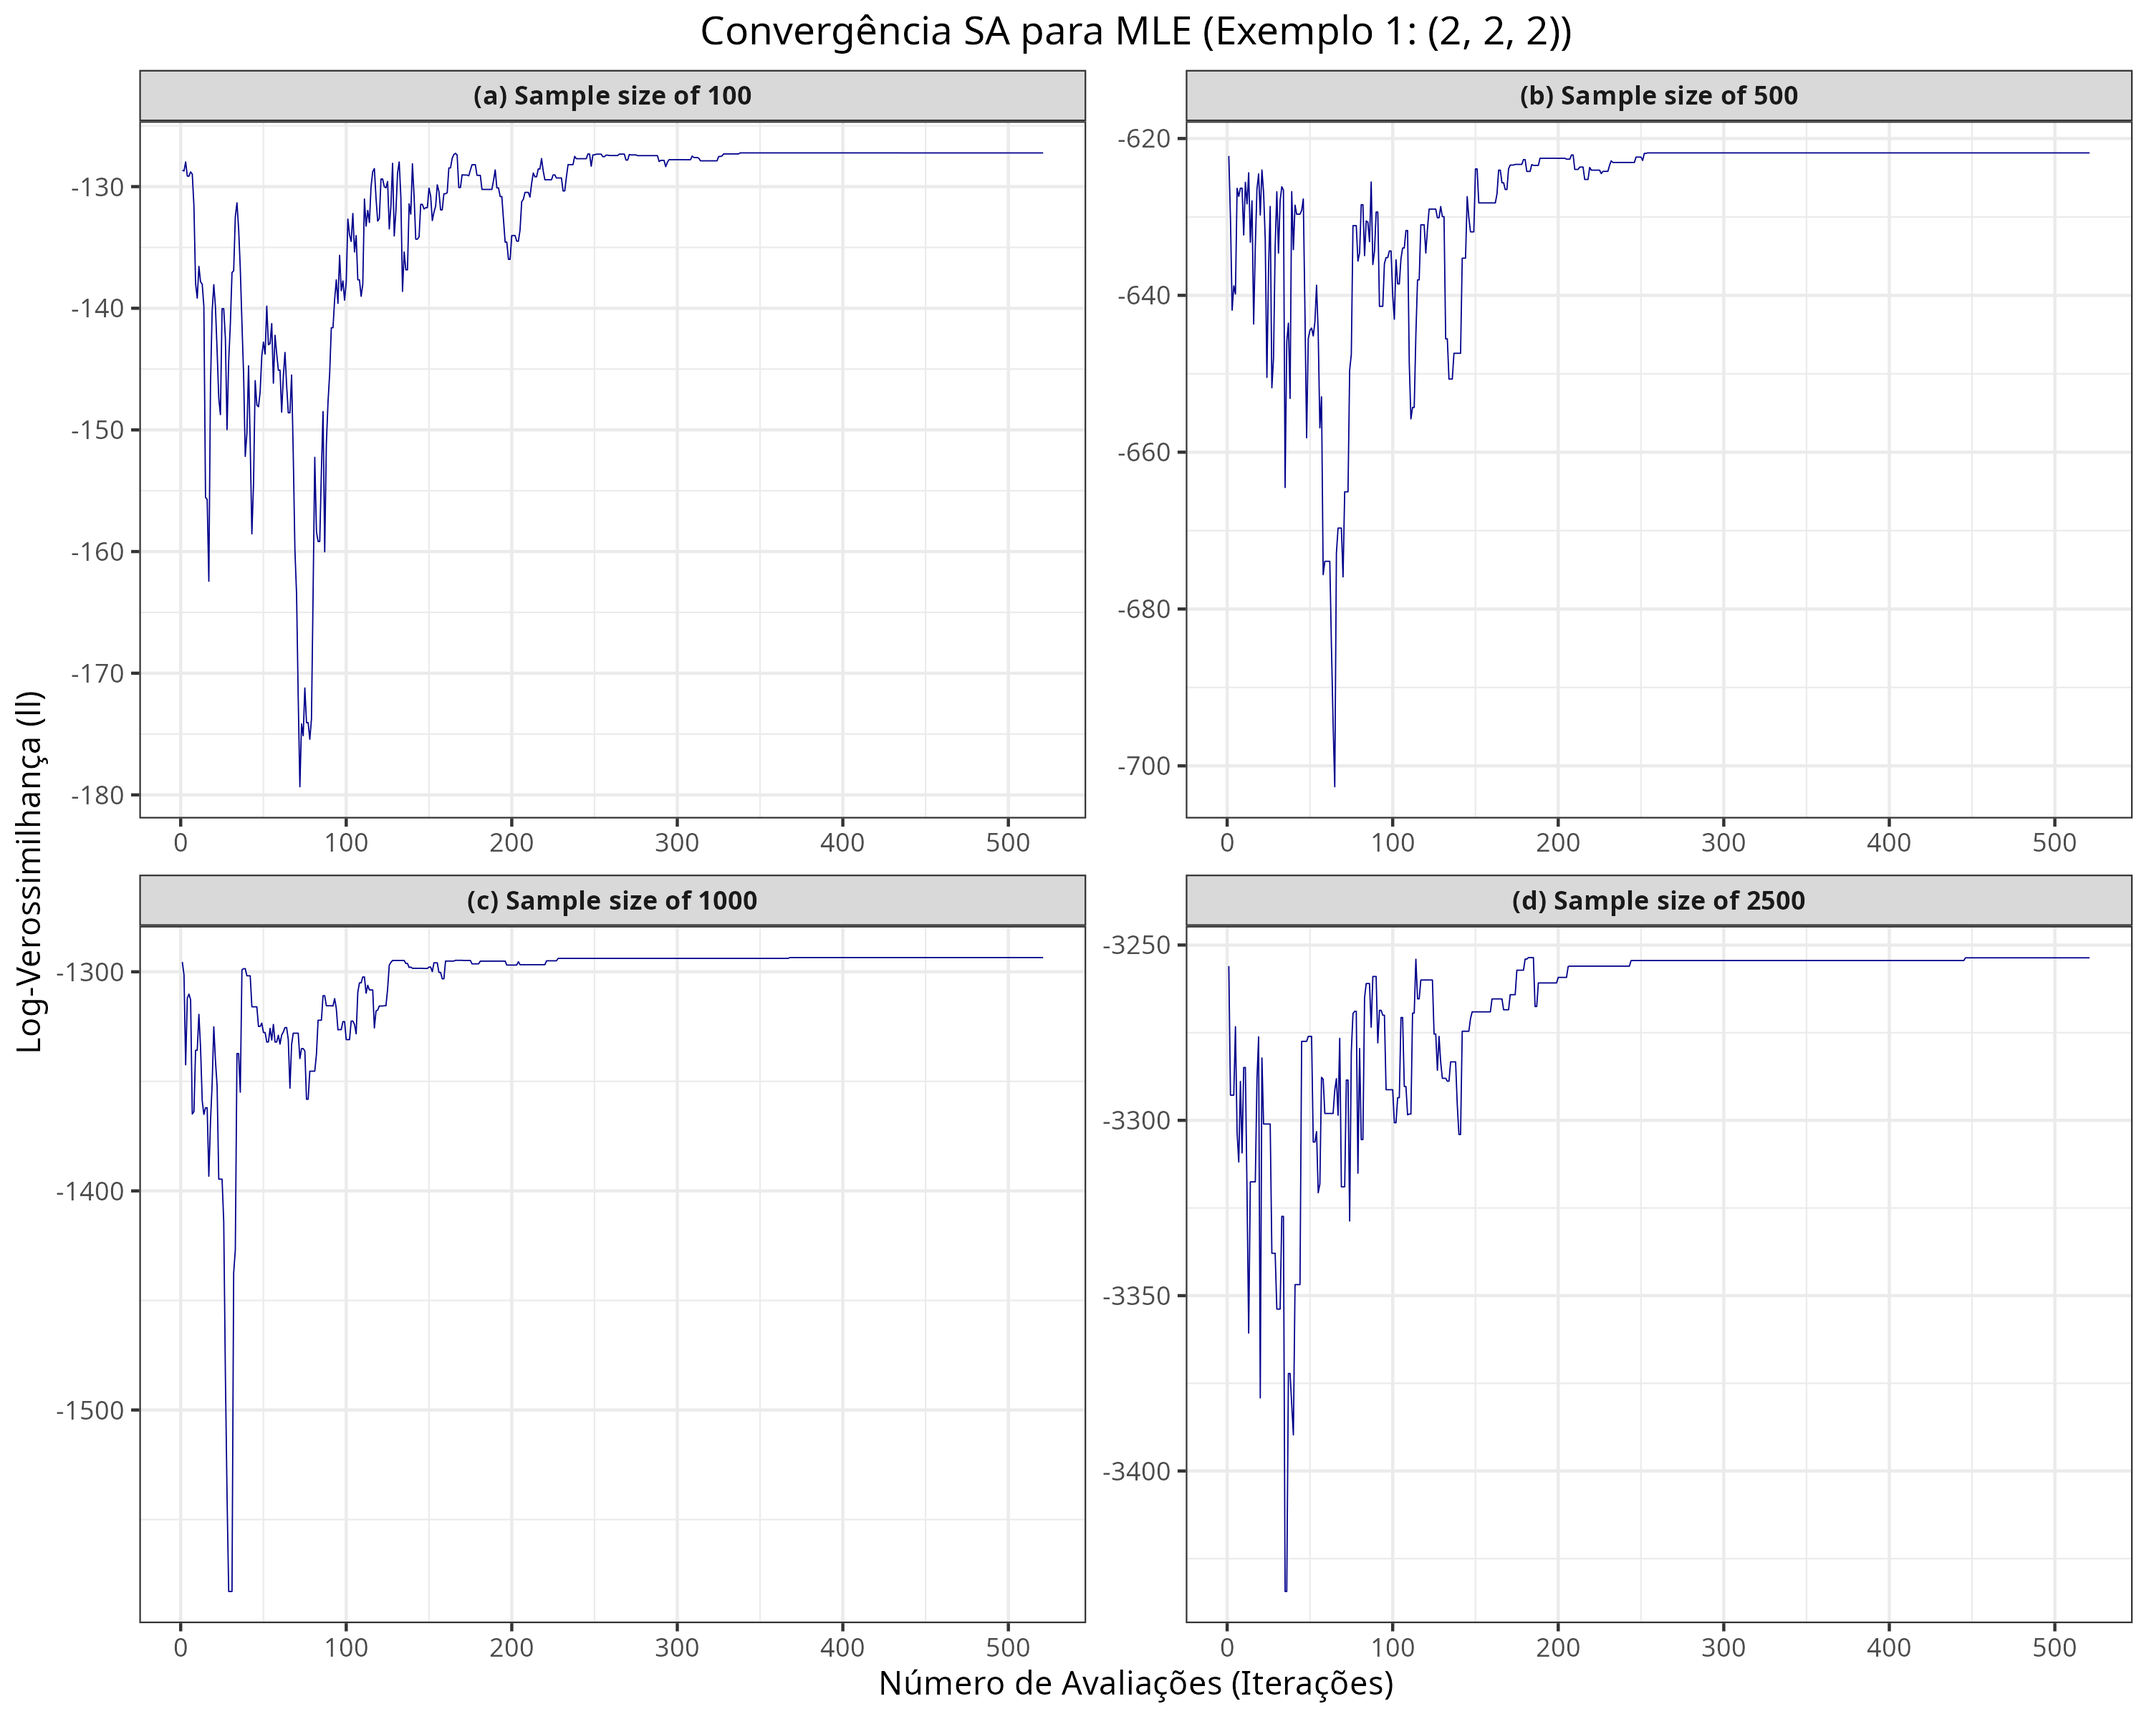
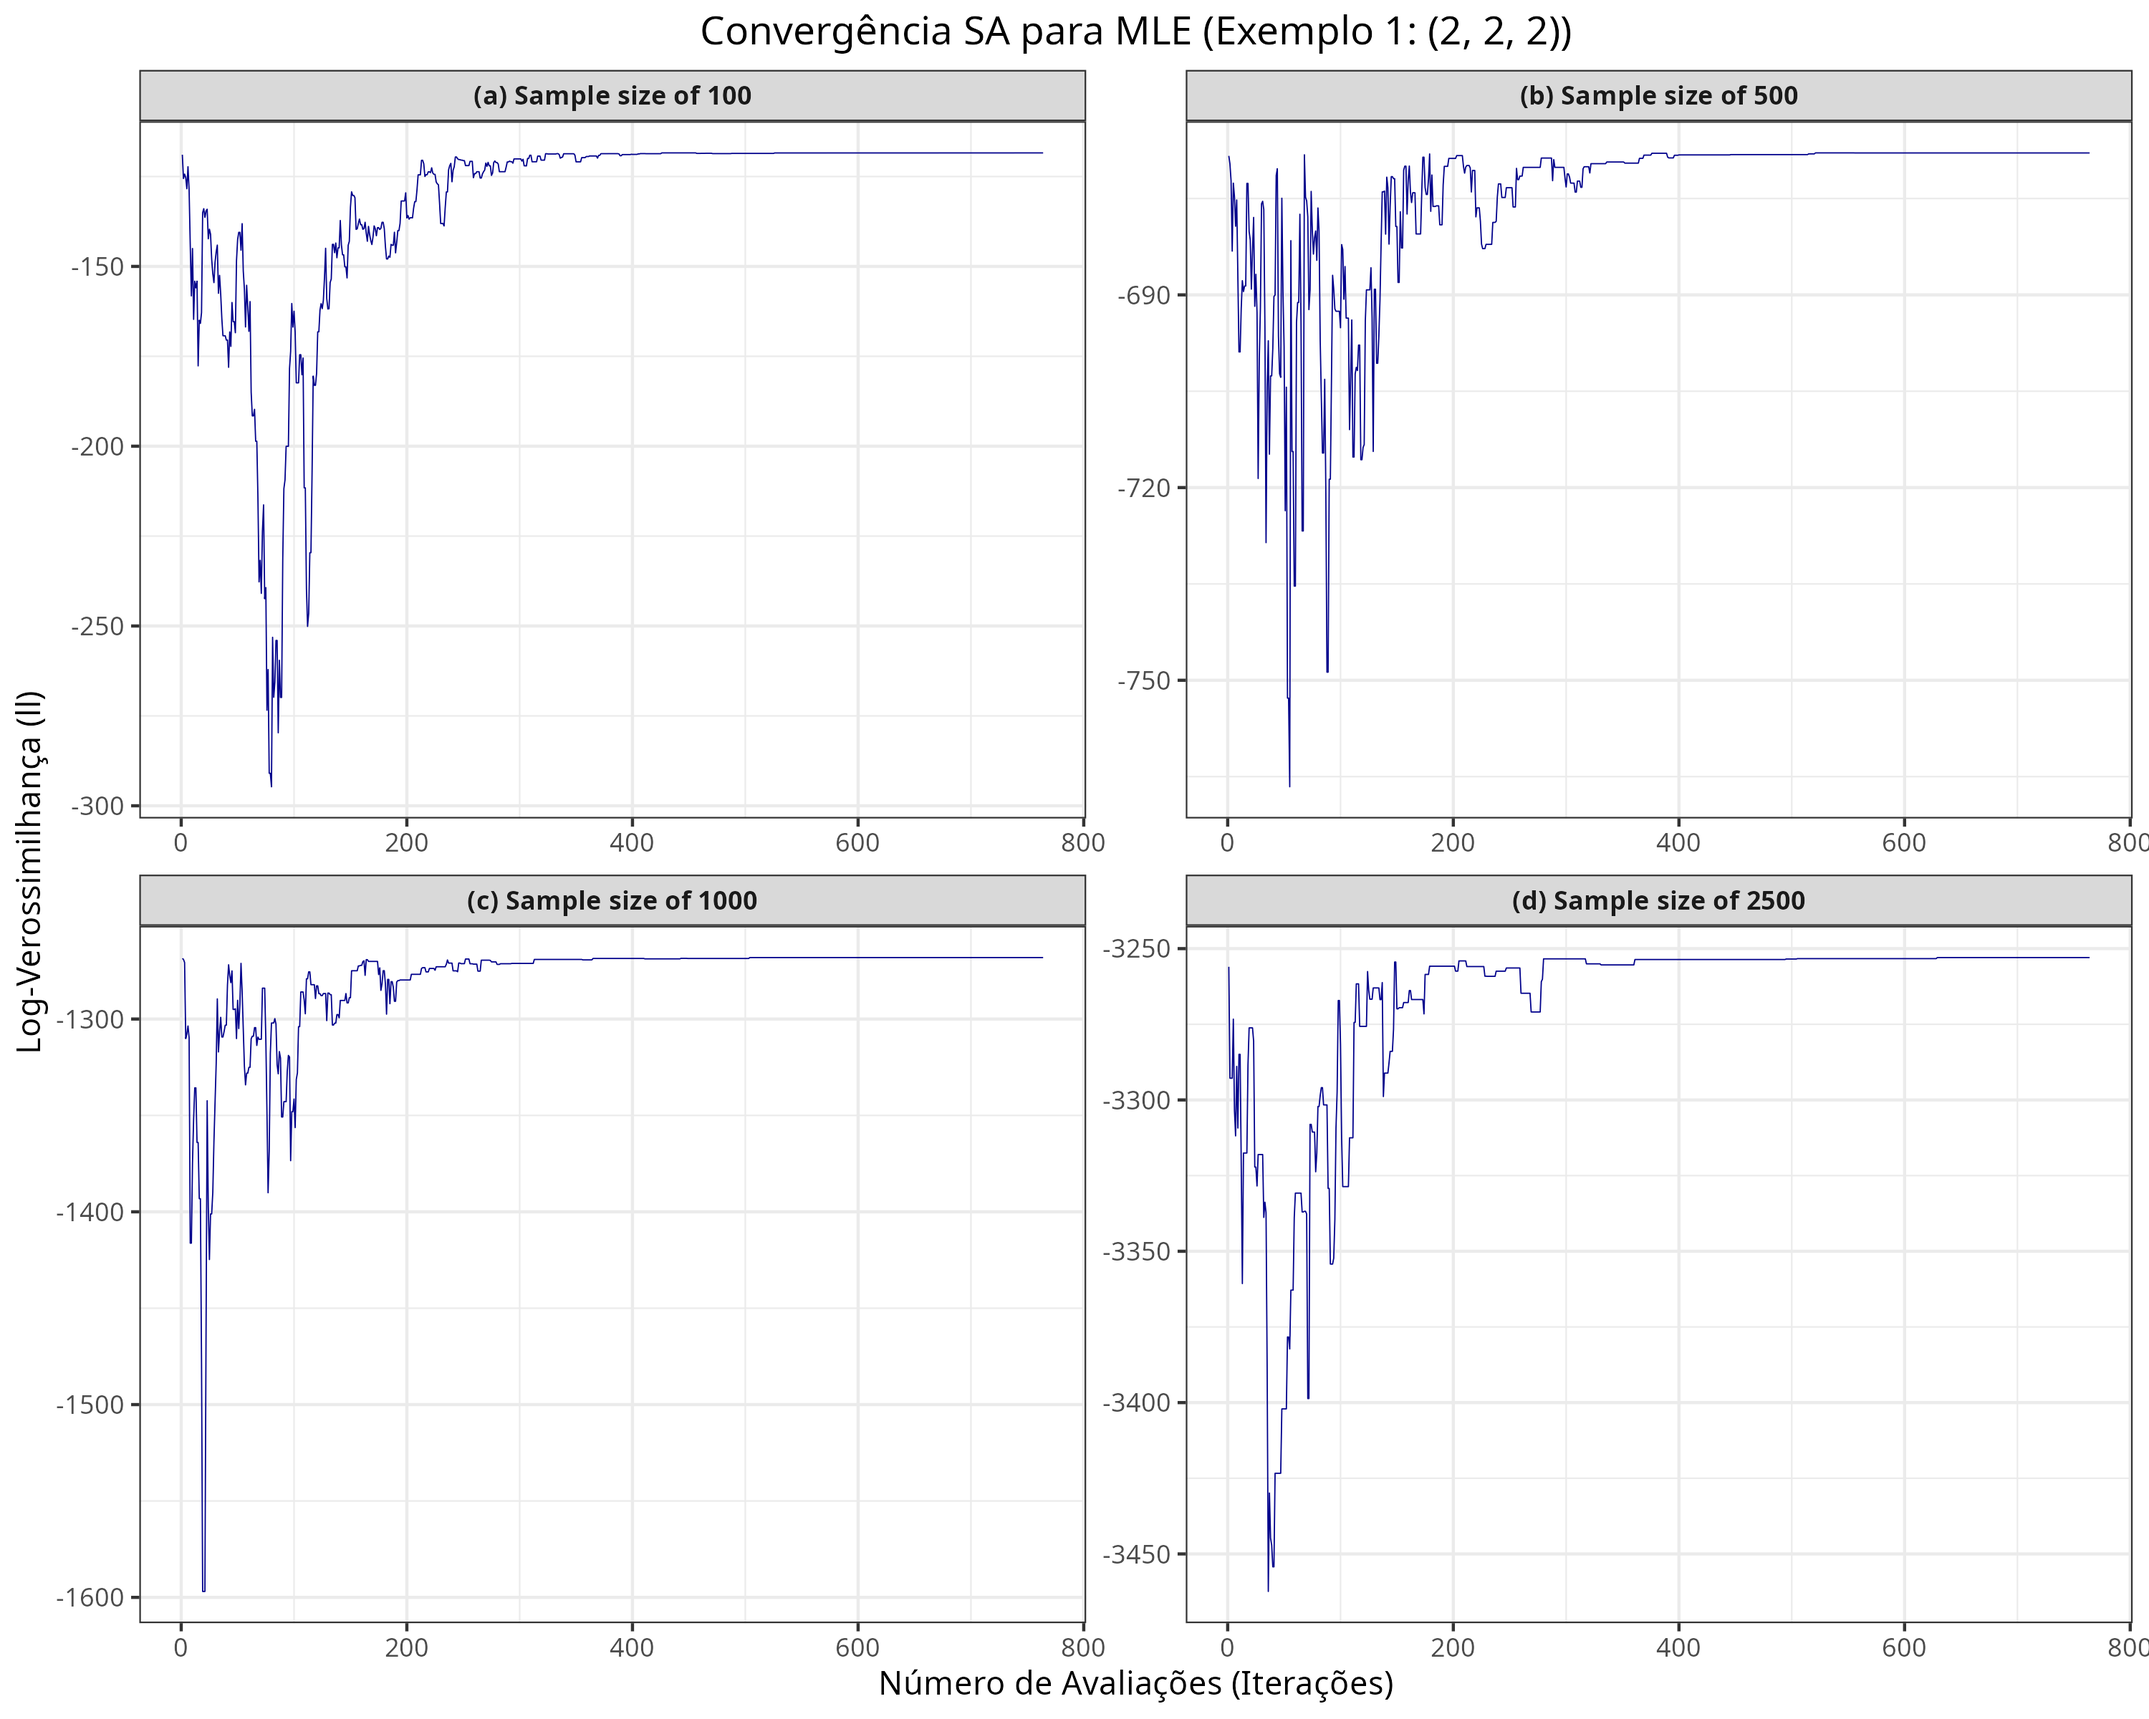
Adição

diff --git a/figuras1/sa_weibull_results_exemplo1.tex b/figuras1/sa_weibull_results_exemplo1.tex
@@ -1,22 +1,20 @@
-% latex table generated in R 4.5.2 by xtable 1.8-4 package
-% Tue Nov 11 13:40:30 2025
-\begin{table}[ht]
+\begin{document}
+ \begin{table}[ht]
 \centering
 \begin{tabular}{lrrrr}
   \hline
-Measure & X2500 & X1000 & X.500 & X.100 \\ 
+  \textbf{Medida} & \textbf{X2500} & \textbf{X1000} & \textbf{X.500} & \textbf{X.100} \\ 
   \toprule
-\multicolumn{1}{c}{Weibull parameters} & \multicolumn{4}{c}{(2, 2, 2)}\\
-\hline
-Measure &  \hline
-Estimated parameters ($\backslash$($\backslash$beta$\backslash$), $\backslash$($\backslash$eta$\backslash$), $\backslash$($\backslash$gamma$\backslash$)) & (1.9961, 2.0295, 2.0245) & (2.0189, 2.0171, 1.9892) & (2.0036, 1.9209, 2.0378) & (1.9500, 1.9084, 2.0256) \\ 
+  \multicolumn{1}{c}{\textbf{Parâmetros de Weibull}} & \multicolumn{4}{c}{(8, 4, 6)}\\
+  \hline
+  \textbf{Parâmetros Estimados} ($\beta$, $\eta$, $\gamma$) & (6.4894, 3.3156, 6.6752) & (6.8370, 3.3816, 6.6081) & (6.2097, 3.0085, 6.9616) & (4.8668, 2.6212, 7.2878) \\ 
     \midrule
-Likelihood function at the real values & -3254.7346 & -1293.5279 & -623.0433 & -127.3077 \\ 
-  Likelihood function at the estimated value & -3253.5756 & -1293.5001 & -621.8333 & -127.2279 \\ 
-  Run time (s) & 0.4544 & 0.3323 & 0.3428 & 0.3381 \\ 
-   \hline
+  Função de Verossimilhança nos valores reais & -2040.0933 & -778.4490 & -385.7043 & -85.9932 \\ 
+  Função de Verossimilhança no valor estimado & -2044.3123 & -778.8102 & -386.2190 & -86.0661 \\ 
+  Tempo de Execução (s) & 0.4719 & 0.5732 & 0.3658 & 0.3559 \\ 
+  \hline
 \end{tabular}
-\caption{Tabela de Resultados para o Exemplo 1: Weibull (2, 2, 2) via Simulated Annealing} 
-\label{tab:sa_weibull_results_ex1}
+\caption{Tabela de Resultados para o Exemplo 3: Weibull (8, 4, 6) via Simulated Annealing} 
+\label{tab:sa_weibull_results_ex3}
 \end{table}
-
+\end{document}

diff --git a/figuras1/sa_weibull_results_exemplo2.tex b/figuras1/sa_weibull_results_exemplo2.tex
@@ -1,5 +1,5 @@
 % latex table generated in R 4.5.2 by xtable 1.8-4 package
-% Tue Nov 11 13:40:32 2025
+% Tue Nov 11 13:52:03 2025
 \begin{table}[ht]
 \centering
 \begin{tabular}{lrrrr}
@@ -9,11 +9,11 @@ Measure & X2500 & X1000 & X.500 & X.100 \\
 \multicolumn{1}{c}{Weibull parameters} & \multicolumn{4}{c}{(3, 5, 7)}\\
 \hline
 Measure &  \hline
-Estimated parameters ($\backslash$($\backslash$beta$\backslash$), $\backslash$($\backslash$eta$\backslash$), $\backslash$($\backslash$gamma$\backslash$)) & (3.0640, 5.0751, 6.9754) & (2.6816, 4.4752, 7.3626) & (3.1692, 5.0352, 6.9872) & (3.5639, 6.0773, 5.9296) \\ 
+Estimated parameters ($\backslash$($\backslash$beta$\backslash$), $\backslash$($\backslash$eta$\backslash$), $\backslash$($\backslash$gamma$\backslash$)) & (3.0587, 4.9981, 6.9799) & (3.0384, 5.0790, 6.9685) & (2.8221, 4.7262, 7.2116) & (3.1704, 4.9244, 6.9768) \\ 
     \midrule
-Likelihood function at the real values & -4733.5157 & -1885.2139 & -926.0549 & -198.2074 \\ 
-  Likelihood function at the estimated value & -4732.1336 & -1880.3641 & -924.9026 & -194.5141 \\ 
-  Run time (s) & 0.4136 & 0.2805 & 0.2754 & 0.3266 \\ 
+Likelihood function at the real values & -4708.0875 & -1899.9829 & -948.4524 & -183.9369 \\ 
+  Likelihood function at the estimated value & -4707.5143 & -1899.5904 & -948.1197 & -183.4742 \\ 
+  Run time (s) & 0.7270 & 0.4349 & 0.3273 & 0.3240 \\ 
    \hline
 \end{tabular}
 \caption{Tabela de Resultados para o Exemplo 2: Weibull (3, 5, 7) via Simulated Annealing} 

diff --git a/figuras1/sa_weibull_results_exemplo3.tex b/figuras1/sa_weibull_results_exemplo3.tex
@@ -1,5 +1,5 @@
 % latex table generated in R 4.5.2 by xtable 1.8-4 package
-% Tue Nov 11 13:40:34 2025
+% Tue Nov 11 13:52:06 2025
 \begin{table}[ht]
 \centering
 \begin{tabular}{lrrrr}
@@ -9,11 +9,11 @@ Measure & X2500 & X1000 & X.500 & X.100 \\
 \multicolumn{1}{c}{Weibull parameters} & \multicolumn{4}{c}{(8, 4, 6)}\\
 \hline
 Measure &  \hline
-Estimated parameters ($\backslash$($\backslash$beta$\backslash$), $\backslash$($\backslash$eta$\backslash$), $\backslash$($\backslash$gamma$\backslash$)) & (6.2645, 3.1957, 6.7846) & (5.8307, 2.9745, 7.0066) & (5.8078, 2.9385, 7.0882) & (5.1459, 2.3385, 7.6643) \\ 
+Estimated parameters ($\backslash$($\backslash$beta$\backslash$), $\backslash$($\backslash$eta$\backslash$), $\backslash$($\backslash$gamma$\backslash$)) & (6.4894, 3.3156, 6.6752) & (6.8370, 3.3816, 6.6081) & (6.2097, 3.0085, 6.9616) & (4.8668, 2.6212, 7.2878) \\ 
     \midrule
-Likelihood function at the real values & -2010.4023 & -796.4591 & -404.2282 & -69.1923 \\ 
-  Likelihood function at the estimated value & -2016.4106 & -796.6604 & -403.4722 & -69.0575 \\ 
-  Run time (s) & 0.4532 & 0.2511 & 0.4278 & 0.2499 \\ 
+Likelihood function at the real values & -2040.0933 & -778.4490 & -385.7043 & -85.9932 \\ 
+  Likelihood function at the estimated value & -2044.3123 & -778.8102 & -386.2190 & -86.0661 \\ 
+  Run time (s) & 0.4719 & 0.5732 & 0.3658 & 0.3559 \\ 
    \hline
 \end{tabular}
 \caption{Tabela de Resultados para o Exemplo 3: Weibull (8, 4, 6) via Simulated Annealing} 
